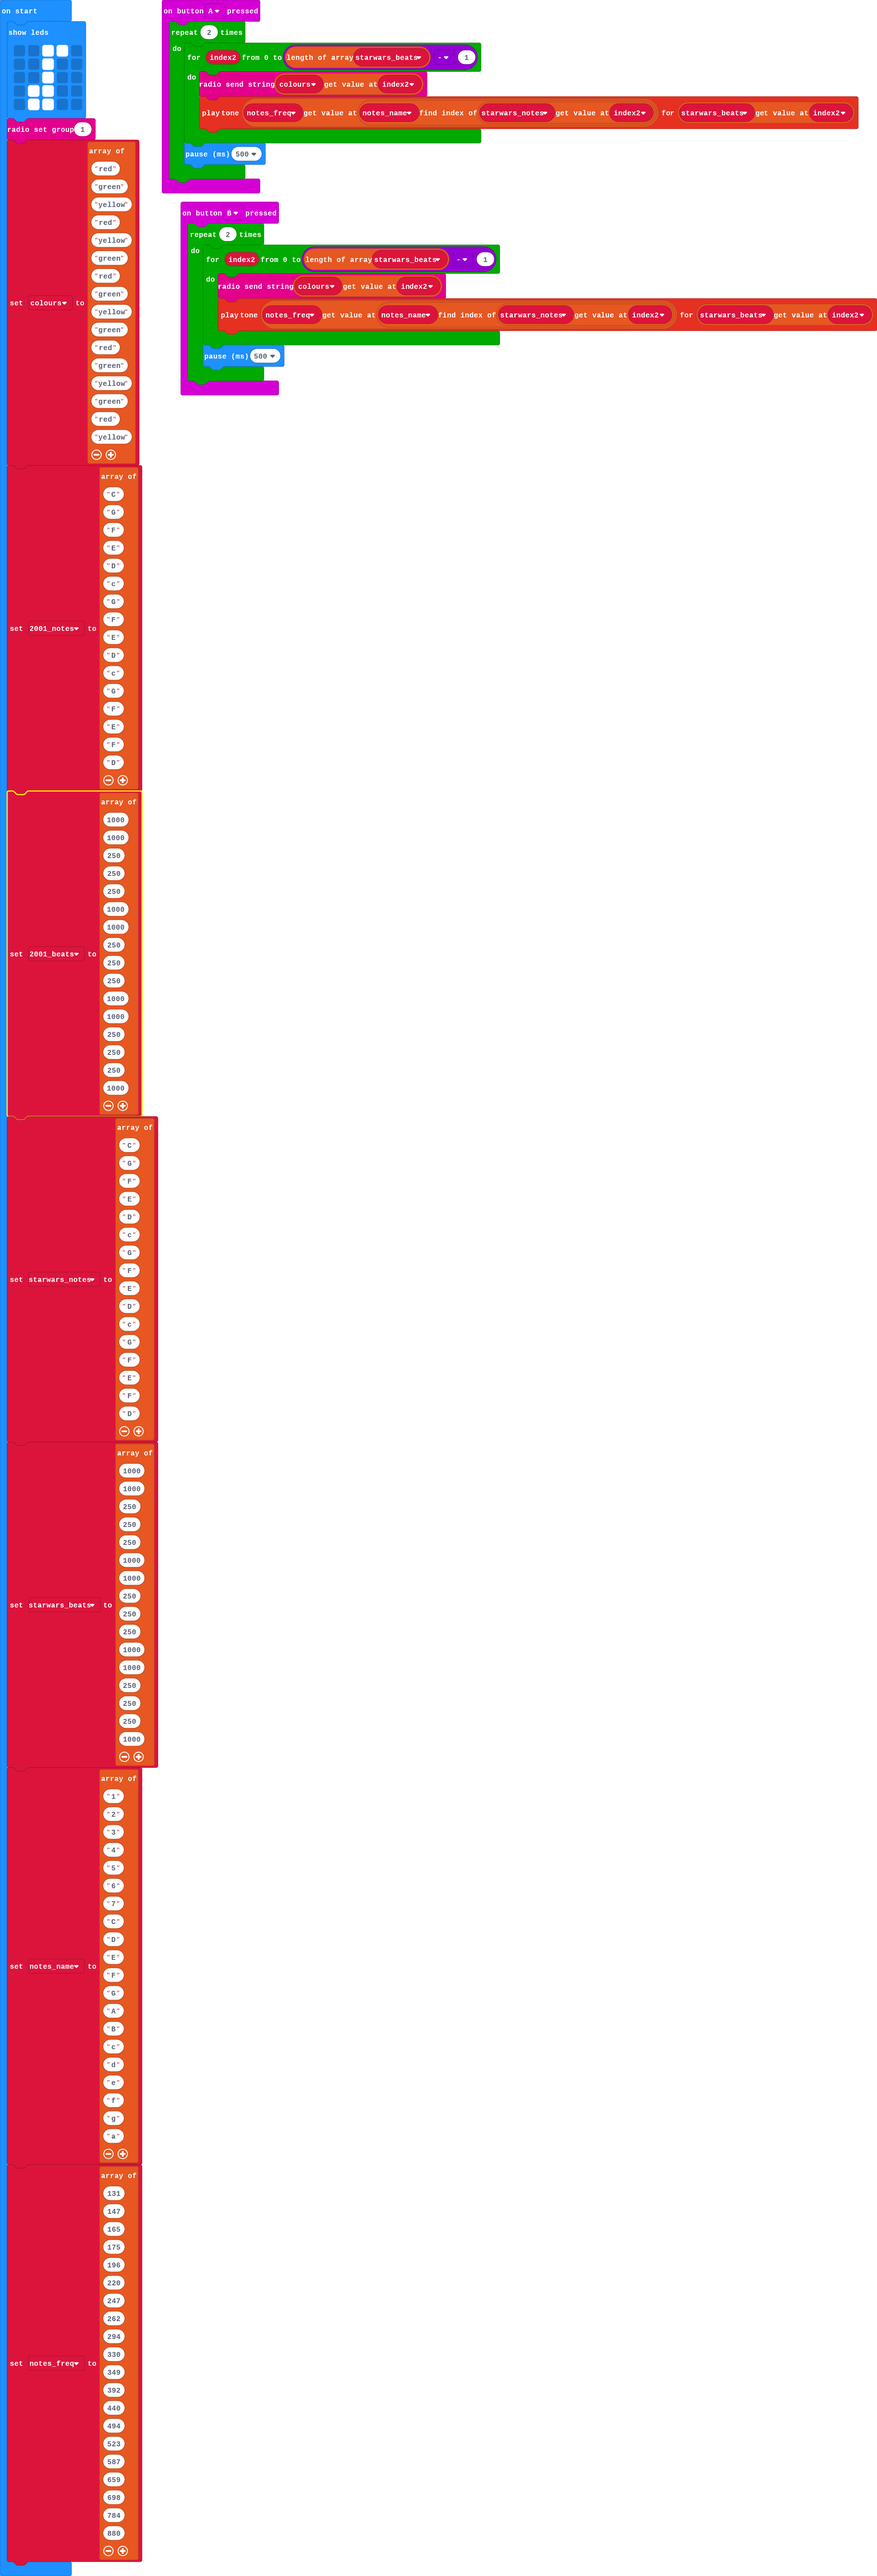
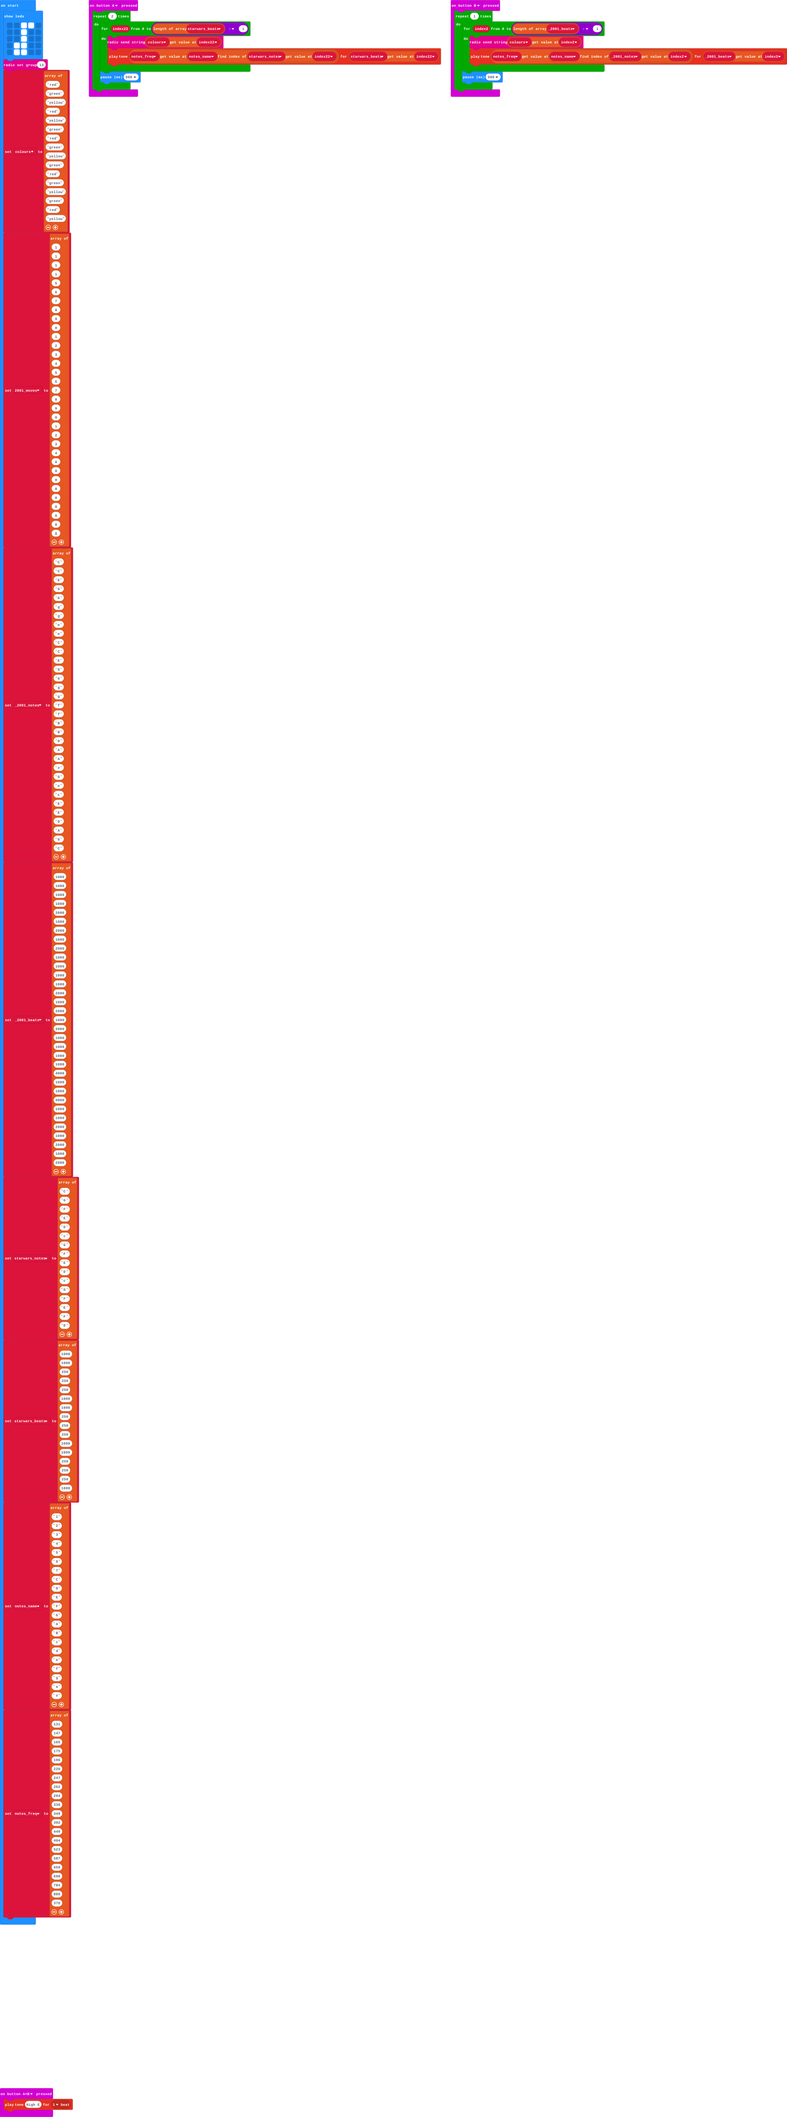
Update main.blocks, main.ts

Changed region(s): [[0.0, 0.0, 1.0, 1.0]]

diff --git a/main.ts b/main.ts
@@ -1,17 +1,20 @@
+input.onButtonPressed(Button.AB, function () {
+    music.playTone(659, music.beat(BeatFraction.Whole))
+})
 input.onButtonPressed(Button.B, function () {
-    for (let index = 0; index < 2; index++) {
-        for (let index2 = 0; index2 <= starwars_beats.length - 1; index2++) {
+    for (let index = 0; index < 1; index++) {
+        for (let index2 = 0; index2 <= _2001_beats.length - 1; index2++) {
             radio.sendString("" + (colours[index2]))
-            music.playTone(notes_freq[notes_name.indexOf(starwars_notes[index2])], starwars_beats[index2])
+            music.playTone(notes_freq[notes_name.indexOf(_2001_notes[index2])], _2001_beats[index2])
         }
         basic.pause(500)
     }
 })
 input.onButtonPressed(Button.A, function () {
     for (let index = 0; index < 2; index++) {
-        for (let index2 = 0; index2 <= starwars_beats.length - 1; index2++) {
-            radio.sendString("" + (colours[index2]))
-            music.playTone(notes_freq[notes_name.indexOf(starwars_notes[index2])], starwars_beats[index2])
+        for (let index22 = 0; index22 <= starwars_beats.length - 1; index22++) {
+            radio.sendString("" + (colours[index22]))
+            music.playTone(notes_freq[notes_name.indexOf(starwars_notes[index22])], starwars_beats[index22])
         }
         basic.pause(500)
     }
@@ -20,6 +23,8 @@ let notes_freq: number[] = []
 let notes_name: string[] = []
 let starwars_beats: number[] = []
 let starwars_notes: string[] = []
+let _2001_beats: number[] = []
+let _2001_notes: string[] = []
 let colours: string[] = []
 basic.showLeds(`
     . . # # .
@@ -28,11 +33,12 @@ basic.showLeds(`
     . # # . .
     . # # . .
     `)
-radio.setGroup(1)
+radio.setGroup(13)
 colours = ["red", "green", "yellow", "red", "yellow", "green", "red", "green", "yellow", "green", "red", "green", "yellow", "green", "red", "yellow"]
-let _2001_notes = ["C", "G", "F", "E", "D", "c", "G", "F", "E", "D", "c", "G", "F", "E", "F", "D"]
-let _2001_beats = [1000, 1000, 250, 250, 250, 1000, 1000, 250, 250, 250, 1000, 1000, 250, 250, 250, 1000]
+let _2001_moves = [1, 1, 1, 1, 5, 6, 7, 8, 9, 0, 1, 2, 3, 4, 5, 6, 7, 8, 9, 0, 1, 2, 3, 4, 0, 0, 0, 0, 0, 0, 0, 0, 0]
+_2001_notes = ["C", "C", "E", "G", "G", "g", "g", "e", "e", "C", "C", "E", "G", "G", "g", "g", "f", "f", "B", "B", "D", "A", "A", "#", "G", "e", "c", "E", "E", "D", "A", "G", "C"]
+_2001_beats = [1000, 1000, 1000, 1000, 2000, 1000, 2000, 1000, 2000, 1000, 1000, 1000, 1000, 2000, 1000, 2000, 1000, 2000, 1000, 1000, 1000, 1000, 4000, 1000, 1000, 4000, 1000, 1000, 2000, 1000, 2000, 1000, 2000]
 starwars_notes = ["C", "G", "F", "E", "D", "c", "G", "F", "E", "D", "c", "G", "F", "E", "F", "D"]
 starwars_beats = [1000, 1000, 250, 250, 250, 1000, 1000, 250, 250, 250, 1000, 1000, 250, 250, 250, 1000]
-notes_name = ["1", "2", "3", "4", "5", "6", "7", "C", "D", "E", "F", "G", "A", "B", "c", "d", "e", "f", "g", "a"]
-notes_freq = [131, 147, 165, 175, 196, 220, 247, 262, 294, 330, 349, 392, 440, 494, 523, 587, 659, 698, 784, 880]
+notes_name = ["1", "2", "3", "4", "5", "6", "7", "C", "D", "E", "F", "G", "A", "B", "c", "d", "e", "f", "g", "a", "#"]
+notes_freq = [131, 147, 165, 175, 196, 220, 247, 262, 294, 330, 349, 392, 440, 494, 523, 587, 659, 698, 784, 880, 370]
